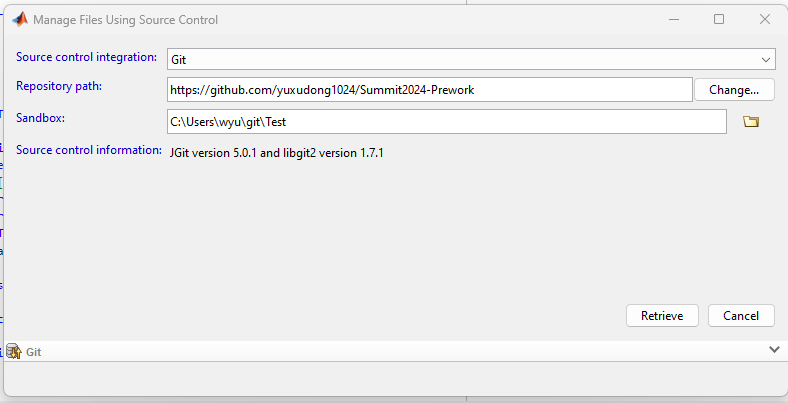
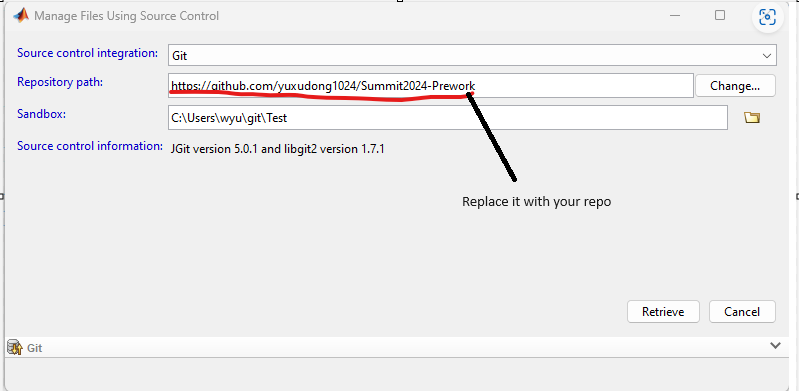
fix

diff --git a/README.md b/README.md
@@ -16,7 +16,7 @@ All the attendees need to finish the prework by following this Readme.
 5. Start MATLAB R2024a, in the `file explorer` tab of MATLAB create a new folder
    ![folder](folder.png)
  
-   Go inside this folder, and use right click of the mouse to clone this prework repo
+   Go inside this folder, and use right click of the mouse to clone ypur forked repo
    ![GitClone1](GitClone1.png) 
    ![GitClone2](GitClone2.png)
 
